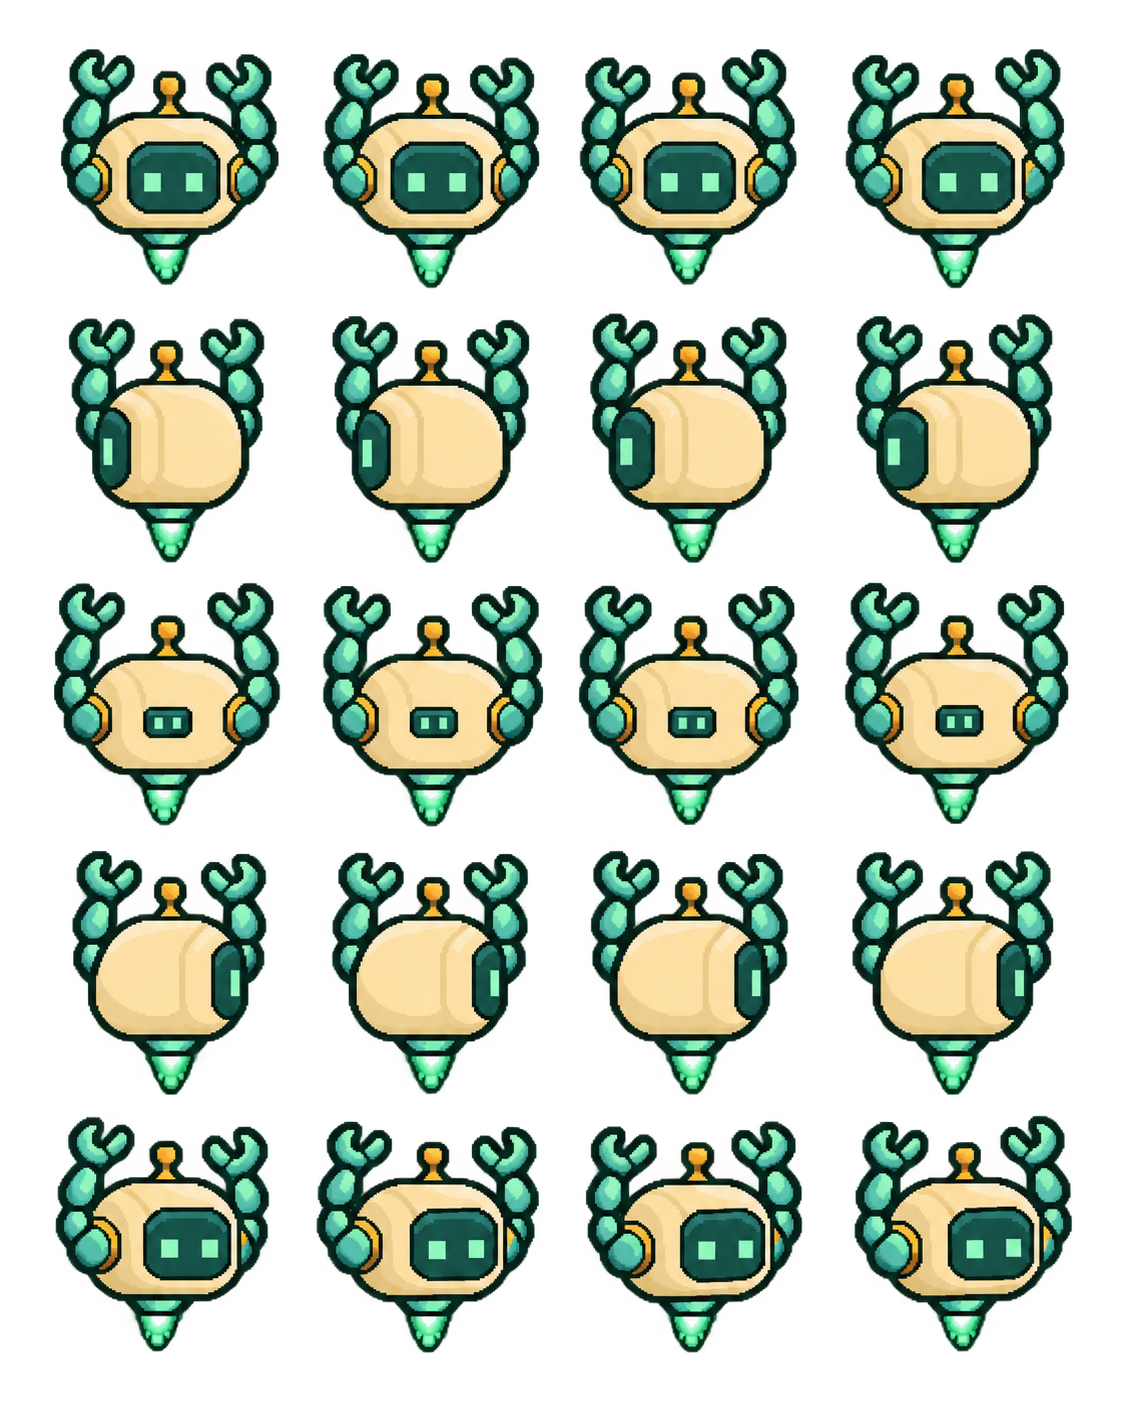
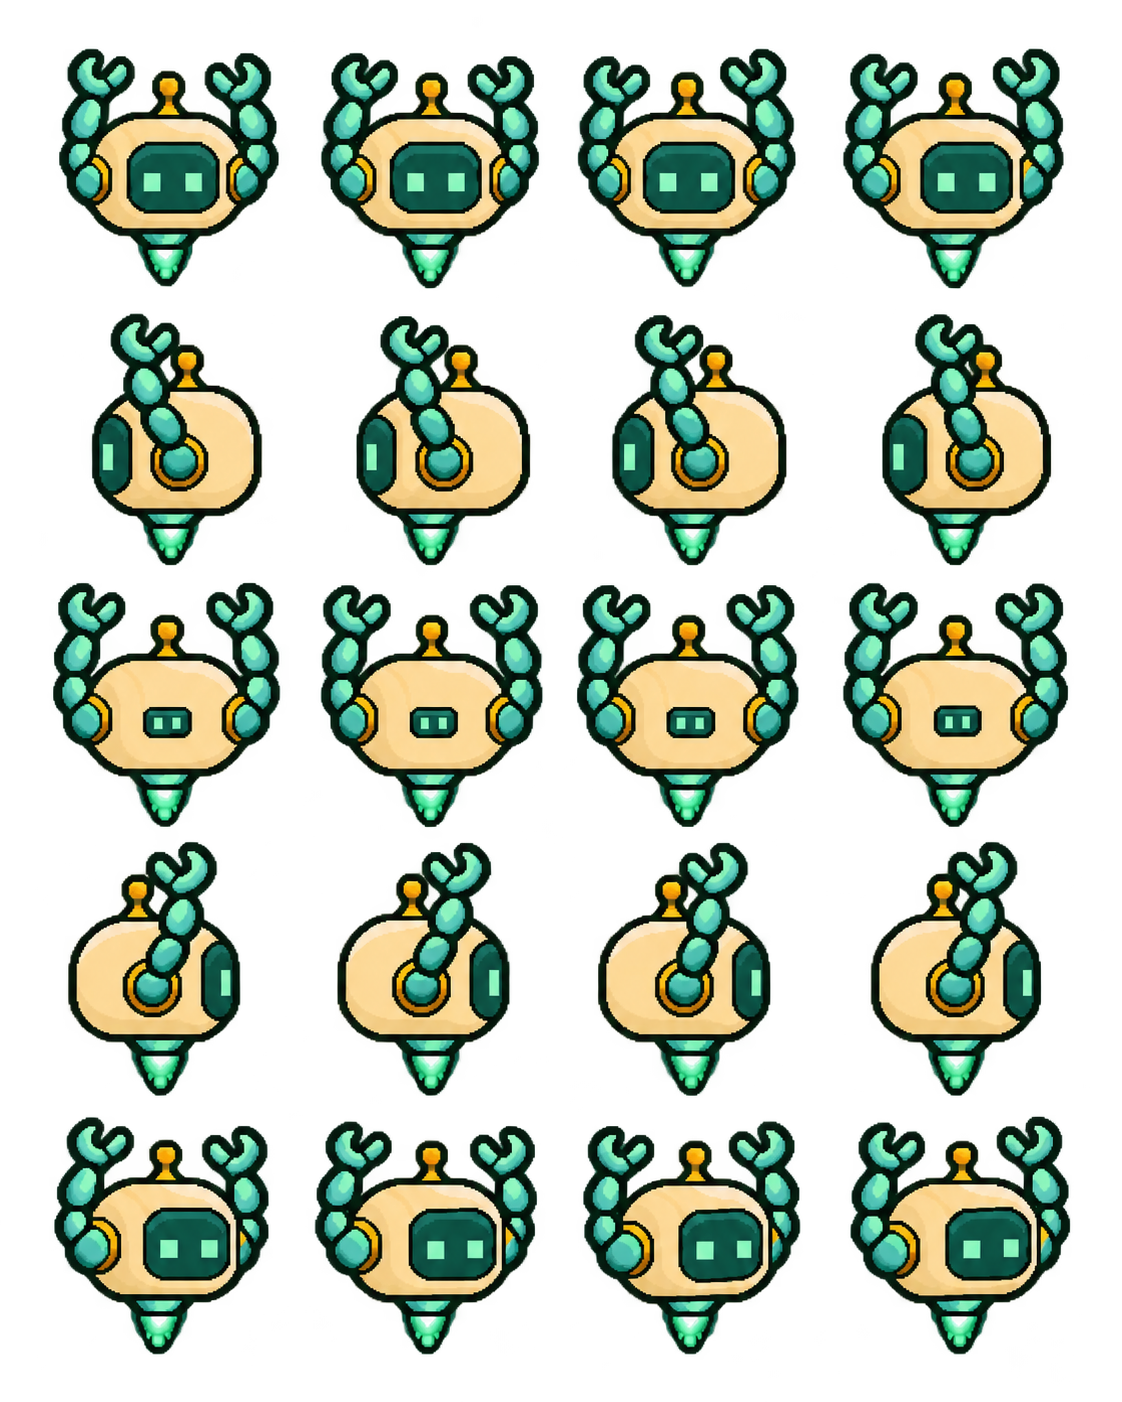
修正東西向持物手臂的側肩位置

diff --git a/index.html b/index.html
@@ -1,7 +1,7 @@
 <!doctype html>
 <html lang="zh-Hant"><head><meta charset="utf-8"><meta name="viewport" content="width=device-width,initial-scale=1"><title>浮葉農場・素材試驗室</title><link rel="stylesheet" href="style.css?v=06"></head>
-<body><header><div class="brand">✣ 浮葉農場 <small>美術開發版本 0.6</small></div><span class="tag">素材互動試驗室</span></header>
+<body><header><div class="brand">✣ 浮葉農場 <small>美術開發版本 0.6.1</small></div><span class="tag">素材互動試驗室</span></header>
 <main><section class="intro"><div><p class="eyebrow">一座由小機器人照顧的農場</p><h1>讓每一片葉子，<br>慢慢長大。</h1></div><p>先看見農場的模樣。<br>試試漂浮、播種與澆水，<br>挑選你喜歡的作物生長階段。</p></section>
 <div class="workbench"><section class="scene-panel"><div class="scene-top"><span>溫室 01 ／ 動作展示</span><span class="live">● 自動環控・示意</span></div><div class="climate"><span>溫度 <b>24°C</b></span><span>空氣濕度 <b>65%</b></span><span>光照 <b>柔和日光</b></span></div><div class="greenhouse"><div class="windows"></div><div class="floor"></div><div id="plots" class="plots"></div><div id="bot" class="bot"><div id="robot" class="sprite robot"></div><div id="held-item" class="held-item" hidden></div></div><span class="scene-label">點選任一田區，讓機器人移動過去</span></div><div class="scene-foot"><span id="status" aria-live="polite">小機器人正在漂浮待命</span><button id="pause">暫停動畫</button></div></section>
 <aside><p class="eyebrow">動作與狀態</p><h2>今天，照顧什麼？</h2><div class="direction-control"><label id="heading">移動朝向：南 ↓</label><div class="turn-buttons"><button id="turn-left">↶ 左轉 90°</button><button id="turn-right">右轉 90° ↷</button><button id="forward">向前一格</button></div><p class="direction-note">以機器人自身為左右。轉向設定移動方向，工作動作維持正面，持物移動時雙手保持舉高。</p></div><label>機器人動作</label><div id="actions" class="choices"><button data-value="0" class="active">漂浮</button><button data-value="1">播種</button><button data-value="2">澆水</button><button data-value="3">採收</button></div><div class="carry-control"><span id="cargo-status" aria-live="polite">空手 ／ 最多 1 個</span><button id="drop" disabled>放下作物</button></div><label for="crop">選取田區的作物</label><select id="crop"><option value="1">胡蘿蔔</option><option value="2">番茄</option><option value="3">萵苣</option></select><label for="growth">生長階段 <span id="stage-name">成熟</span></label><input id="growth" type="range" min="0" max="3" value="3" step="1"><div class="range-label"><span>幼苗</span><span>成熟</span></div><label>土壤含水狀態</label><div id="soils" class="choices"><button data-value="0">乾裂</button><button data-value="1">一般</button><button data-value="2" class="active">濕潤</button><button data-value="3">積水</button></div><p class="note">這裡的切換只用來檢視素材。溫濕度為自動控制示意，尚未加入生長計時、資源或收益。</p></aside></div>
-<section class="library"><div class="library-heading"><div><p class="eyebrow">固定角色・一致色系</p><h2>素材標本簿</h2></div><span>20 格新增持物動畫 ＋ 3 個獨立收成</span></div><div id="catalog"></div></section><section class="produce-library"><p class="eyebrow">從田裡，到頭頂與貨架</p><h2>收成素材・商店展示預覽</h2><p class="note">每張都是獨立的單個作物圖片，與機器人分開。這裡只預覽商品外觀，尚無買賣機制。</p><div id="produce-catalog"></div></section><footer>浮葉農場 · 像素素材 v0.6 <a href="docs/STYLE_GUIDE.md">風格規範 ↗</a><a href="assets/robot-hover-directions-v04.png">四向漂浮圖集 ↗</a><a href="assets/robot-harvest-empty-v02.png">空手採收圖集 ↗</a><a href="assets/robot-carry-directions-v06.png">四向與待機持物圖集 ↗</a><a href="docs/prompts-v06.json">本次提示詞 ↗</a><a href="docs/prompts.json">生成提示詞 ↗</a><a href="assets/robot-atlas-v01.png">機器人圖集 ↗</a><a href="assets/farm-atlas-v01.png">農場圖集 ↗</a></footer></main><script src="alignment.js?v=06"></script><script src="app.js?v=06"></script></body></html>
+<section class="library"><div class="library-heading"><div><p class="eyebrow">固定角色・一致色系</p><h2>素材標本簿</h2></div><span>20 格新增持物動畫 ＋ 3 個獨立收成</span></div><div id="catalog"></div></section><section class="produce-library"><p class="eyebrow">從田裡，到頭頂與貨架</p><h2>收成素材・商店展示預覽</h2><p class="note">每張都是獨立的單個作物圖片，與機器人分開。這裡只預覽商品外觀，尚無買賣機制。</p><div id="produce-catalog"></div></section><footer>浮葉農場 · 像素素材 v0.6.1 <a href="docs/STYLE_GUIDE.md">風格規範 ↗</a><a href="assets/robot-hover-directions-v04.png">四向漂浮圖集 ↗</a><a href="assets/robot-harvest-empty-v02.png">空手採收圖集 ↗</a><a href="assets/robot-carry-directions-v06.png">四向與待機持物圖集 ↗</a><a href="docs/prompts-v06.json">本次提示詞 ↗</a><a href="docs/prompts.json">生成提示詞 ↗</a><a href="assets/robot-atlas-v01.png">機器人圖集 ↗</a><a href="assets/farm-atlas-v01.png">農場圖集 ↗</a></footer></main><script src="alignment.js?v=061"></script><script src="app.js?v=061"></script></body></html>

diff --git a/alignment.js b/alignment.js
@@ -34,111 +34,111 @@ const spriteAlignment={
       [
         [
           167,
+          173,
+          109
+        ],
+        [
+          430,
           174,
           108
         ],
         [
-          431,
-          173,
-          109
+          686,
+          174,
+          108
         ],
         [
-          687,
-          173,
-          109
-        ],
-        [
-          958,
-          173,
-          109
+          955,
+          174,
+          108
         ]
       ],
       [
         [
-          176,
-          444,
+          183,
+          450,
           116
         ],
         [
-          435,
-          444,
-          117
-        ],
-        [
-          696,
-          444,
-          115
-        ],
-        [
-          964,
-          444,
+          450,
+          450,
           116
+        ],
+        [
+          706,
+          450,
+          116
+        ],
+        [
+          973,
+          450,
+          114
         ]
       ],
       [
         [
           166,
           714,
-          106
-        ],
-        [
-          432,
-          714,
           107
         ],
         [
-          690,
-          714,
-          107
-        ],
-        [
-          956,
+          431,
           714,
           108
+        ],
+        [
+          688,
+          714,
+          108
+        ],
+        [
+          955,
+          714,
+          106
         ]
       ],
       [
         [
-          162,
-          977,
-          113
+          148,
+          978,
+          112
         ],
         [
-          422,
-          977,
-          113
+          416,
+          978,
+          112
         ],
         [
-          684,
-          977,
-          113
+          677,
+          978,
+          112
         ],
         [
-          946,
-          977,
-          113
+          949,
+          978,
+          112
         ]
       ],
       [
         [
-          170,
+          169,
           1238,
           110
         ],
         [
-          434,
+          433,
           1240,
           110
         ],
         [
-          702,
+          700,
           1240,
           110
         ],
         [
-          971,
-          1239,
-          111
+          969,
+          1240,
+          110
         ]
       ]
     ],
@@ -163,19 +163,19 @@ const spriteAlignment={
       ],
       [
         [
-          176,
+          146,
           350
         ],
         [
-          435,
+          414,
           350
         ],
         [
-          696,
+          669,
           350
         ],
         [
-          964,
+          949,
           350
         ]
       ],
@@ -199,20 +199,20 @@ const spriteAlignment={
       ],
       [
         [
-          162,
-          884
+          181,
+          880
         ],
         [
-          422,
-          884
+          456,
+          880
         ],
         [
-          684,
-          884
+          713,
+          880
         ],
         [
-          946,
-          884
+          982,
+          880
         ]
       ],
       [

diff --git a/app.js b/app.js
@@ -77,7 +77,7 @@ for(const source of [robotSource,harvestSource,directionSource,carrySource]){
   source.onload=()=>robotViews.forEach(drawRobot);
   source.onerror=()=>{$('#status').textContent='機器人素材載入失敗，請重新整理頁面。';};
 }
-robotSource.src='assets/robot-atlas-v01.png';harvestSource.src='assets/robot-harvest-empty-v02.png';directionSource.src='assets/robot-hover-directions-v04.png';carrySource.src='assets/robot-carry-directions-v06.png';
+robotSource.src='assets/robot-atlas-v01.png';harvestSource.src='assets/robot-harvest-empty-v02.png';directionSource.src='assets/robot-hover-directions-v04.png';carrySource.src='assets/robot-carry-directions-v06.png?v=061';
 // 商店與頭頂持物共用來源圖和裁取範圍，僅顯示尺寸不同。
 const itemViews=new Set();
 function drawItem(canvas){
